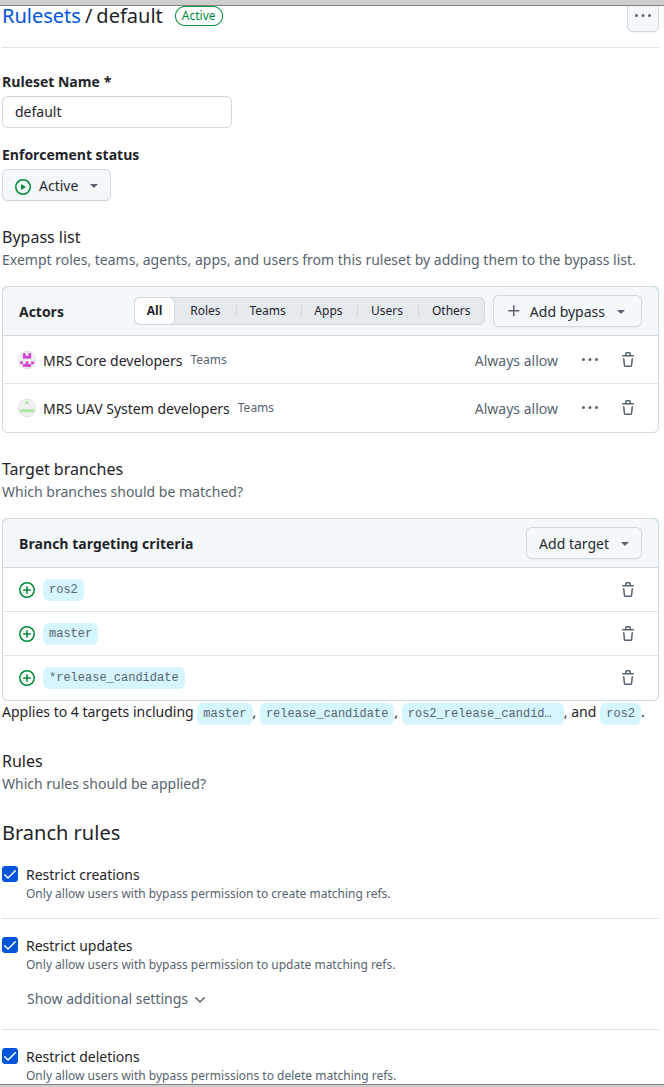
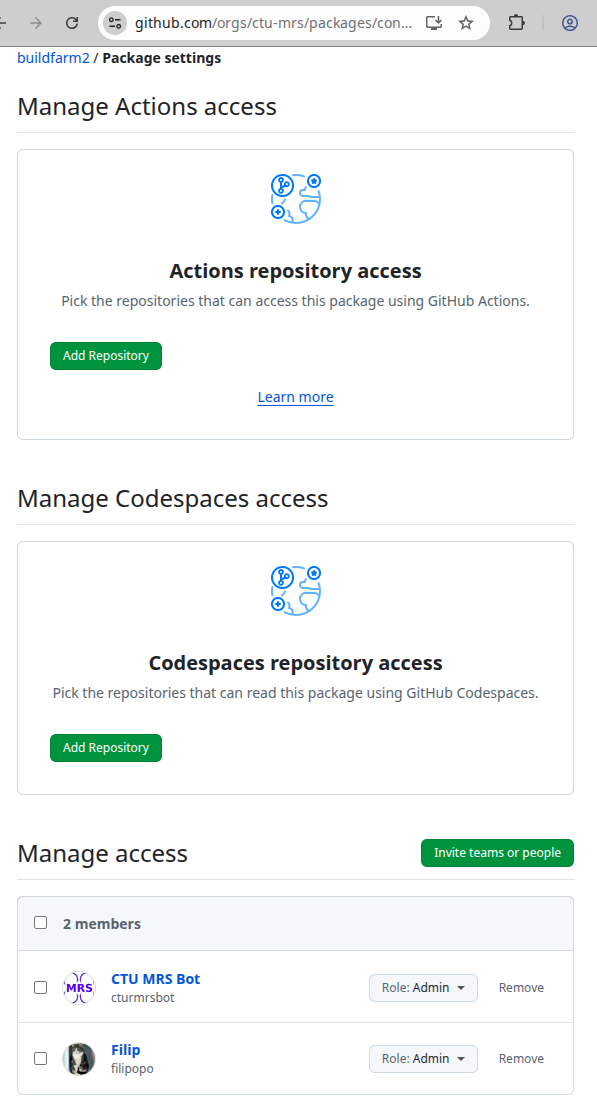
Cleanup some stuff

diff --git a/docs/80-for-system-developers/build_pipeline.md b/docs/80-for-system-developers/build_pipeline.md
@@ -200,15 +200,6 @@ Modern GitHub uses **Rulesets** (located in **Settings** &rarr; **Rules** &rarr;
 
 ![Legacy Branch Protection vs Rulesets](fig/image4.png)
 
-:::warning Critical: Why Deletions & Force Pushes Must Have a Dedicated Ruleset
-In GitHub Rulesets, **the Bypass list applies to the entire ruleset**. If developers or maintainers are placed on the bypass list of a ruleset containing "Restrict deletions" or "Block force pushes", those actors bypass **all** rules in that ruleset—meaning they can accidentally delete or force-push to critical branches (like `ros2`, `ros1`, `master`, and candidate branches).
-
-To guarantee strict branch security, we separate branch protection into **three focused rulesets**:
-1. **`delete_force_push`**: Global protection with **no bypass list** (zero bypass actors).
-2. **`release`**: Protects `*release` branches against updates, allowing only `ctumrsbot`.
-3. **`release_candidate`**: Protects `*release_candidate` branches against updates, allowing only authorized maintainers (`MRS Core developers`).
-:::
-
 ---
 
 #### Fast Setup: Import Pre-configured Rulesets (Recommended)
@@ -485,7 +476,7 @@ $ docker pull ghcr.io/ctu-mrs/buildfarm2:jazzy_builder_amd_36126839068
 Error response from daemon: denied
 ```
 
-![GitHub Container Registry Package Settings](fig/image6.png)
+![GitHub Container Registry Package Settings](fig/image5.png)
 
 ### Why It Happens & How to Fix It
 GitHub Packages images belong to the organization and are private by default:
